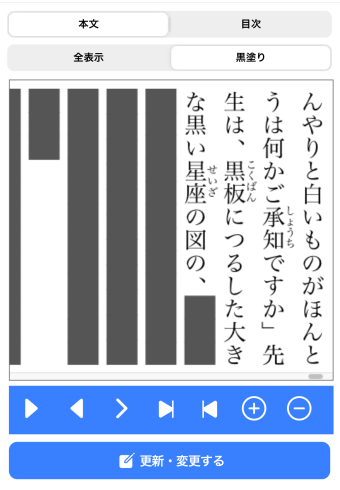
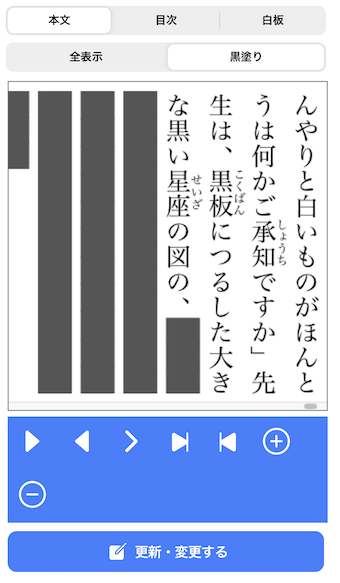
update

diff --git a/src/app/doc-view/doc-view.page.html b/src/app/doc-view/doc-view.page.html
@@ -50,65 +50,67 @@
       (mouseup)="mouseUp($event)"
       (touchend)="touchEnd($event)"
     ></canvas>
-    <div *ngIf="contents == '0' || contents == '1'">
-      <div #tb1 class="tb">
-        <ion-icon
-          *ngIf="contents == '0' && mode == '2'"
-          name="caret-forward"
-          [ngStyle]="stF"
-          (click)="pushed('1')"
-        ></ion-icon>
-        <ion-icon
-          *ngIf="contents == '0' && mode == '2'"
-          name="caret-back"
-          [ngStyle]="stF"
-          (click)="pushed('2')"
-        ></ion-icon>
-        <ion-icon
-          *ngIf="contents == '0' && mode == '2'"
-          name="chevron-forward"
-          [ngStyle]="stF"
-          (click)="pushed('3')"
-        ></ion-icon>
-        <ion-icon
-          name="play-skip-forward"
-          class="tb2"
-          [ngStyle]="stF"
-          (click)="pushed('4')"
-        ></ion-icon>
-        <ion-icon
-          name="play-skip-back"
-          class="tb2"
-          [ngStyle]="stF"
-          (click)="pushed('5')"
-        ></ion-icon>
-        <ion-icon
-          name="add-circle-outline"
-          [ngStyle]="stF"
-          (click)="pushed('fp')"
-        ></ion-icon>
-        <ion-icon
-          name="remove-circle-outline"
-          [ngStyle]="stF"
-          (click)="pushed('fm')"
-        ></ion-icon>
+    <div #tb1>
+      <div *ngIf="contents == '0' || contents == '1'">
+        <div class="tb">
+          <ion-icon
+            *ngIf="contents == '0' && mode == '2'"
+            name="caret-forward"
+            [ngStyle]="stF"
+            (click)="pushed('1')"
+          ></ion-icon>
+          <ion-icon
+            *ngIf="contents == '0' && mode == '2'"
+            name="caret-back"
+            [ngStyle]="stF"
+            (click)="pushed('2')"
+          ></ion-icon>
+          <ion-icon
+            *ngIf="contents == '0' && mode == '2'"
+            name="chevron-forward"
+            [ngStyle]="stF"
+            (click)="pushed('3')"
+          ></ion-icon>
+          <ion-icon
+            name="play-skip-forward"
+            class="tb2"
+            [ngStyle]="stF"
+            (click)="pushed('4')"
+          ></ion-icon>
+          <ion-icon
+            name="play-skip-back"
+            class="tb2"
+            [ngStyle]="stF"
+            (click)="pushed('5')"
+          ></ion-icon>
+          <ion-icon
+            name="add-circle-outline"
+            [ngStyle]="stF"
+            (click)="pushed('fp')"
+          ></ion-icon>
+          <ion-icon
+            name="remove-circle-outline"
+            [ngStyle]="stF"
+            (click)="pushed('fm')"
+          ></ion-icon>
+        </div>
+        <ion-button expand="block" (click)="change()">
+          <ion-icon slot="start" name="create"></ion-icon>&nbsp;更新・変更する
+        </ion-button>
       </div>
-      <ion-button expand="block" (click)="change()">
-        <ion-icon slot="start" name="create"></ion-icon>&nbsp;更新・変更する
-      </ion-button>
+      <section *ngIf="contents == '2'">
+        <ion-button style="width: calc(50% - 5px)" (click)="strokeBack()"
+          ><ion-icon slot="start" name="arrow-undo-outline"></ion-icon
+          >&nbsp;戻す</ion-button
+        >
+        <ion-button
+          style="width: calc(50% - 5px); padding-left: 3px"
+          (click)="strokeClear()"
+          ><ion-icon slot="start" name="scan-outline"></ion-icon
+          >&nbsp;消去</ion-button
+        >
+      </section>
     </div>
-    <section *ngIf="contents == '2'">
-      <ion-button style="width: calc(50% - 5px)" (click)="strokeBack()"
-        ><ion-icon slot="start" name="arrow-undo-outline"></ion-icon
-        >&nbsp;戻す</ion-button
-      >
-      <ion-button
-        style="width: calc(50% - 5px); padding-left: 3px"
-        (click)="strokeClear()"
-        ><ion-icon slot="start" name="scan-outline"></ion-icon
-        >&nbsp;消去</ion-button
-      >
-    </section>
   </div>
   <p>&nbsp;</p>
 </ion-content>

diff --git a/src/app/doc-view/doc-view.page.ts b/src/app/doc-view/doc-view.page.ts
@@ -18,7 +18,8 @@ import { BnanService } from "../common/bnan.service";
 export class DocViewPage implements OnInit {
   @ViewChild("cv1") canvas1: any;
   @ViewChild("cv2") canvas2: any;
-  @ViewChild("tb1") toolbar: any;
+  //@ViewChild("seg1") seg1: any;
+  @ViewChild("tb1") tb1: any;
   private canvasElement1: any;
   private toolbarElement: any;
   title = "文書";
@@ -87,7 +88,7 @@ export class DocViewPage implements OnInit {
       this.bs.selectedIndex = Define.PG_VIEW;
       this.title = this.bs.setting.curDoc.title;
 
-      this.toolbarElement = this.toolbar.nativeElement;
+      this.toolbarElement = this.tb1.nativeElement;
       this.bs.frWidth = this.toolbarElement.getBoundingClientRect().width;
       this.canvasElement1 = this.canvas1.nativeElement;
       let ct = this.canvasElement1.getContext("2d");
@@ -113,7 +114,7 @@ export class DocViewPage implements OnInit {
     try {
       //const prefersDark = window.matchMedia("(prefers-color-scheme: dark)");
       //const darkMode = prefersDark.matches;
-      this.toolbarElement = this.toolbar.nativeElement;
+      this.toolbarElement = this.tb1.nativeElement;
       this.bs.frWidth = this.toolbarElement.getBoundingClientRect().width;
       this.canvasElement1 = this.canvas1.nativeElement;
       this.canvasElement1.width = this.bs.frWidth;
@@ -149,17 +150,29 @@ export class DocViewPage implements OnInit {
     try {
       //const prefersDark = window.matchMedia("(prefers-color-scheme: dark)");
       //const darkMode = prefersDark.matches;
-      this.toolbarElement = this.toolbar.nativeElement;
+
+      this.toolbarElement = this.tb1.nativeElement;
       this.bs.frWidth = this.toolbarElement.getBoundingClientRect().width;
       this.canvasElement1 = this.canvas1.nativeElement;
       this.canvasElement1.width = this.bs.frWidth;
-      this.canvasElement1.height = this.bs.setting.height;
+
+      let height: number;
+      if (this.contents == "2") {
+        if (this.bs.isIos) {
+          height = window.innerHeight - 224;
+        } else {
+          height = window.innerHeight - 165;
+        }
+      } else {
+        height = this.bs.setting.height;
+      }
+      this.canvasElement1.height = height;
+      this.stCv1.height = `${height}px`;
       this.stCv1.width = `${this.bs.frWidth}px`;
-      this.stCv1.height = `${this.bs.setting.height}px`;
 
       (await this.bs.wasm).resize(
         this.bs.frWidth,
-        this.bs.setting.height,
+        height,
         this.darkMode,
       );
 
@@ -202,6 +215,12 @@ export class DocViewPage implements OnInit {
       this.stCv1.height = `${height}px`;
 
       (await this.bs.wasm).tab_change(parseInt(this.contents), this.bs.frWidth, height, this.darkMode);
+
+      if (this.contents != "2") {
+        setTimeout(() => {
+          this.resize();
+        }, 800);
+      }
     } catch (e) {
       this.bs.logs.push("DocViewPage.contents_change Error! " + e);
       this.router.navigate(["/error"]);

diff --git a/src/app/usage-view/usage-view.page.html b/src/app/usage-view/usage-view.page.html
@@ -104,16 +104,28 @@
     <hr />
     <h2>白板</h2>
     <p>
-      「白板(はくばん)」を選択すると、指やタッチペンで手書きができる画面になります。文章を手を動かして書く際に使うことができます。
+      「白板(はくばん)」を選択すると、指やタッチペンで手書きができる画面になります。<br />暗記したい文章を、手を動かして書くことによって、暗記しやすくなります。
+    </p>
+    <p>
+      <img
+        src="assets/png/fig04.png"
+        style="border: solid 1px gray; padding: 1px"
+      />
+    </p>
+    <p>
+      「戻す」ボタンを押すと、最後に書かれた線が消えます。<br />「消去」ボタンを押すと、すべての線が消えます。
+    </p>
+    <p>
+      書く → 消す → 書く → 消す → ・・・<br />を繰り返すことによって、より確実に暗記できるようになります。
     </p>
     <p><br /><br /></p>
     <hr />
     <p>文章を暗記するコツは、次の５つです。</p>
     <ol>
       <li>文章を適度な長さに分ける。</li>
+      <li>文章を頭の中でイメージ化する。</li>
       <li>文章を声に出して読む。</li>
       <li>文章を手を動かして書く。</li>
-      <li>文章を頭の中でイメージ化する。</li>
       <li>覚えるまで何度も繰り返す。</li>
     </ol>
     <p><br /></p>

diff --git a/src/app/common/idb.ts b/src/app/common/idb.ts
@@ -119,7 +119,7 @@ export class AppDatabase extends Dexie {
         }
       });
 
-      /*
+      /** */
       // テスト用
       doc = new Doc(
         "銀河鉄道の夜", // title
@@ -340,7 +340,7 @@ export class AppDatabase extends Dexie {
           seq++;
         }
       });
-      */
+      /**/
     } catch (e) {
       throw Error("AppDatabase.loadSample error: " + e);
     }
@@ -349,7 +349,7 @@ export class AppDatabase extends Dexie {
   static async deleteDb() {
     try {
       await Dexie.delete(DB_NAME);
-    } catch (e) {}
+    } catch (e) { }
   }
 
   static getDt(): string {

diff --git a/src/app/app.module.ts b/src/app/app.module.ts
@@ -13,7 +13,9 @@ import { AppRoutingModule } from "./app-routing.module";
 @NgModule({
   declarations: [AppComponent],
   entryComponents: [],
-  imports: [BrowserModule, IonicModule.forRoot(), AppRoutingModule],
+  imports: [BrowserModule, IonicModule.forRoot({
+    swipeBackEnabled: false
+  }), AppRoutingModule],
   providers: [
     StatusBar,
     SplashScreen,
@@ -22,4 +24,4 @@ import { AppRoutingModule } from "./app-routing.module";
   ],
   bootstrap: [AppComponent],
 })
-export class AppModule {}
+export class AppModule { }

diff --git a/src/app/app.component.html b/src/app/app.component.html
@@ -1,6 +1,6 @@
 <ion-app>
   <ion-split-pane when="(min-width: 3000px)" contentId="main-content">
-    <ion-menu contentId="main-content" type="overlay">
+    <ion-menu contentId="main-content" type="overlay" swipeGesture="false">
       <ion-content>
         <ion-list id="inbox-list">
           <ion-list-header>文章暗記</ion-list-header>

diff --git a/src/app/doc-view/doc-view.page.scss b/src/app/doc-view/doc-view.page.scss
@@ -19,11 +19,6 @@ ion-icon {
   padding: 8px !important;
 }
 
-.tb3 {
-  font-size: 30px !important;
-  padding: 6px !important;
-}
-
 .disable {
   color: #888 !important;
 }
